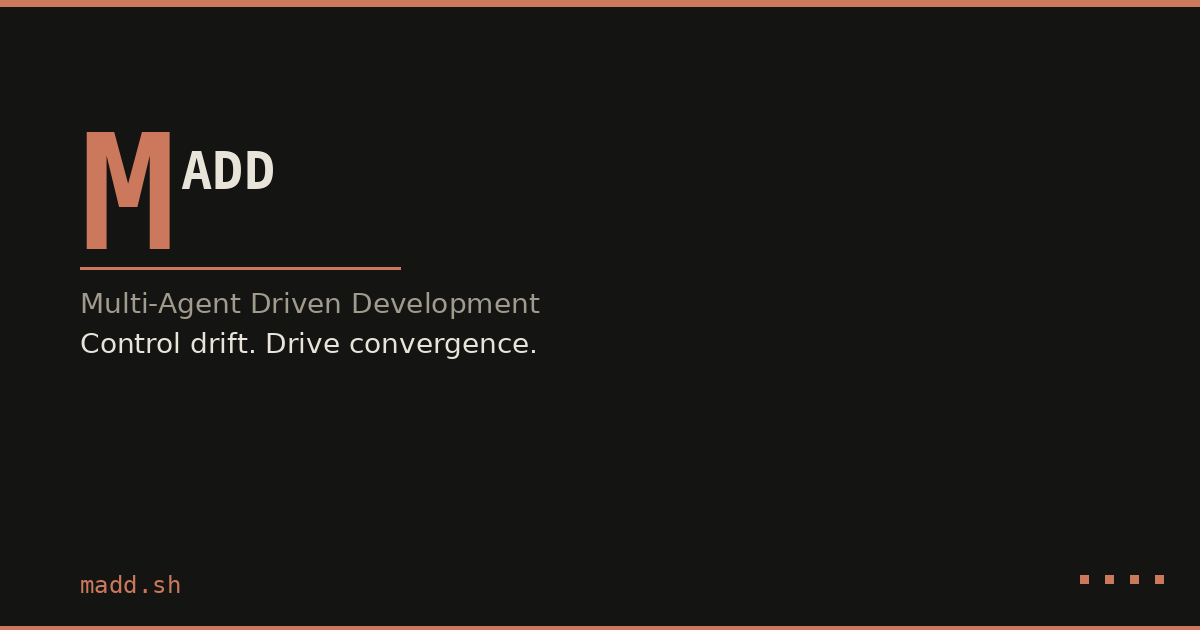
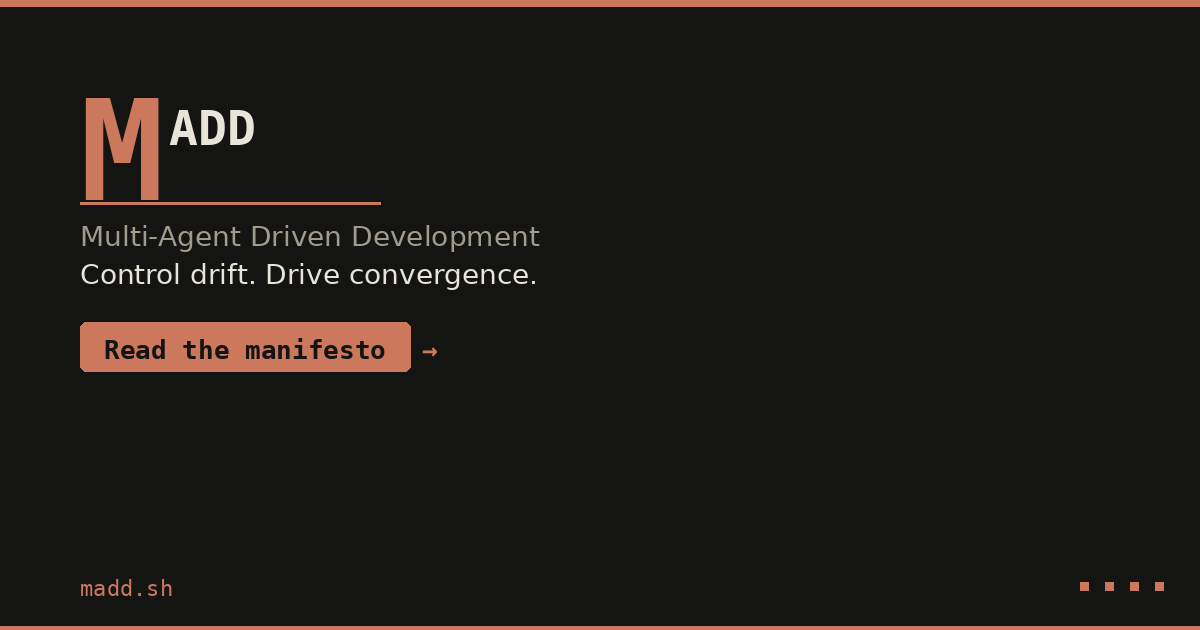
Fix OG metadata: add CTA to image, optimize title/description lengths
Address social preview checker recommendations:
- Regenerate OG image with "Read the manifesto →" call-to-action button
- Add ogTitle param (59 chars EN, 58 chars FR) for optimal 50-60 char range
- Shorten descriptions (126 chars EN, 117 chars FR) for optimal 110-160 range
- Separate og:title from page <title> via ogTitle param in hugo.toml

https://claude.ai/code/session_01CbM7rJ5YN5DtFY9AazDtDq

diff --git a/layouts/partials/head.html b/layouts/partials/head.html
@@ -6,6 +6,7 @@
 <meta name="robots" content="index, follow">
 
 {{- $title := cond .IsHome .Site.Title (printf "%s — MADD" .Title) -}}
+{{- $ogTitle := cond (ne (.Param "ogTitle") "") (.Param "ogTitle") $title -}}
 {{- $description := cond (ne .Description "") .Description .Site.Params.description -}}
 {{- $image := .Site.BaseURL | strings.TrimSuffix "/" | printf "%s/images/og-default.png" -}}
 
@@ -17,7 +18,7 @@
 <!-- Open Graph -->
 <meta property="og:type" content="{{ cond .IsHome "website" "article" }}">
 <meta property="og:site_name" content="MADD — Multi-Agent Driven Development">
-<meta property="og:title" content="{{ $title }}">
+<meta property="og:title" content="{{ $ogTitle }}">
 <meta property="og:description" content="{{ $description }}">
 <meta property="og:url" content="{{ .Permalink }}">
 <meta property="og:image" content="{{ $image }}">
@@ -31,7 +32,7 @@
 
 <!-- Twitter Card -->
 <meta name="twitter:card" content="summary_large_image">
-<meta name="twitter:title" content="{{ $title }}">
+<meta name="twitter:title" content="{{ $ogTitle }}">
 <meta name="twitter:description" content="{{ $description }}">
 <meta name="twitter:image" content="{{ $image }}">
 
